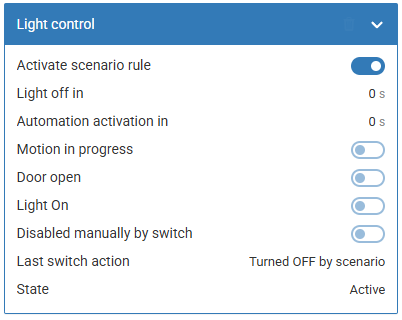
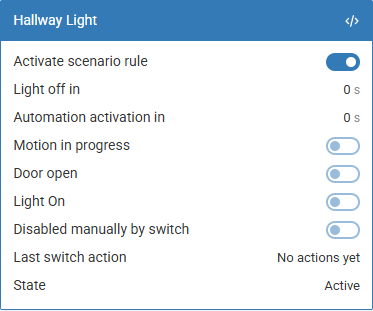
update example and imgs

Changed region(s): [[0.0, 0.0, 1.0, 1.0]]

diff --git a/scenarios/light-control/README.md b/scenarios/light-control/README.md
@@ -115,7 +115,7 @@
 | Поле | Тип | Описание |
 |---|---|---|
 | `mqttTopicName` | string | Имя контрола `"устройство/контрол"` |
-| `behaviorType` | string | `setEnable`, `setValueNumericInput`, `setText`, `setColor` |
+| `behaviorType` | string | `setEnable`, `setDisable`, `setValueNumericInput`, `setText`, `setColor` |
 | `actionValue` | any | Значение при включении |
 | `resetValue` | any | Значение при выключении, необязательный параметр |
 
@@ -158,26 +158,47 @@
 
 ## Пример конфигурации
 
-Запись в файле `/etc/wb-scenarios.conf`:
+Пример прихожей со всеми типами выходных действий сразу: потолочный свет
+(реле), ночник (инверсно — горит, пока основной свет выключен), диммируемое бра,
+RGB-подсветка и текстовая панель статуса. Включают свет датчик движения, датчик
+двери и настенный выключатель.
+
+Пример — один элемент массива `scenarios` в файле `/etc/wb-scenarios.conf`:
 
 ```json
 {
   "componentVersion": 1,
   "scenarioType": "lightControl",
-  "name": "Свет в коридоре",
-  "id_prefix": "hallway_light",
+  "name": "Hallway Light",
+  "id_prefix": "hallway",
   "isDebugEnabled": false,
   "lightDevices": {
     "sensorObjects": [
       {
-        "mqttTopicName": "wb-mr6cv3_127/K4",
+        "mqttTopicName": "demo_lights/ceiling",
         "behaviorType": "setEnable"
       },
       {
-        "mqttTopicName": "wb-mdm3_50/Channel 1",
+        "mqttTopicName": "demo_lights/nightlight",
+        "behaviorType": "setDisable"
+      },
+      {
+        "mqttTopicName": "demo_lights/dimmer",
         "behaviorType": "setValueNumericInput",
-        "actionValue": 100,
+        "actionValue": 70,
         "resetValue": 0
+      },
+      {
+        "mqttTopicName": "demo_lights/strip",
+        "behaviorType": "setColor",
+        "actionValue": "#ff8800",
+        "resetValue": "#000000"
+      },
+      {
+        "mqttTopicName": "demo_lights/panel",
+        "behaviorType": "setText",
+        "actionValue": "Light On",
+        "resetValue": "Night"
       }
     ]
   },
@@ -185,7 +206,7 @@
     "delayToLightOff": 120,
     "sensorObjects": [
       {
-        "mqttTopicName": "wb-msw-v4_34/Current Motion",
+        "mqttTopicName": "demo_sensors/motion",
         "behaviorType": "whileValueHigherThanThreshold",
         "actionValue": 170
       }
@@ -195,7 +216,7 @@
     "delayToLightOff": 180,
     "sensorObjects": [
       {
-        "mqttTopicName": "wb-gpio/EXT1_IN1",
+        "mqttTopicName": "demo_sensors/door",
         "behaviorType": "whenEnabled"
       }
     ]
@@ -205,7 +226,7 @@
     "delayToLightOffAndEnable": 3600,
     "sensorObjects": [
       {
-        "mqttTopicName": "wall_switch_0/enabled"
+        "mqttTopicName": "demo_sensors/wall_switch"
       }
     ]
   }
@@ -354,6 +375,10 @@ function main() {
       {
         'behaviorType': 'setEnable',
         'mqttTopicName': 'wb-mr6cv3_127/K4',
+      },
+      {
+        'behaviorType': 'setDisable',
+        'mqttTopicName': 'wb-mr6cv3_127/K5',
       },
       {
         'behaviorType': 'setValueNumericInput',